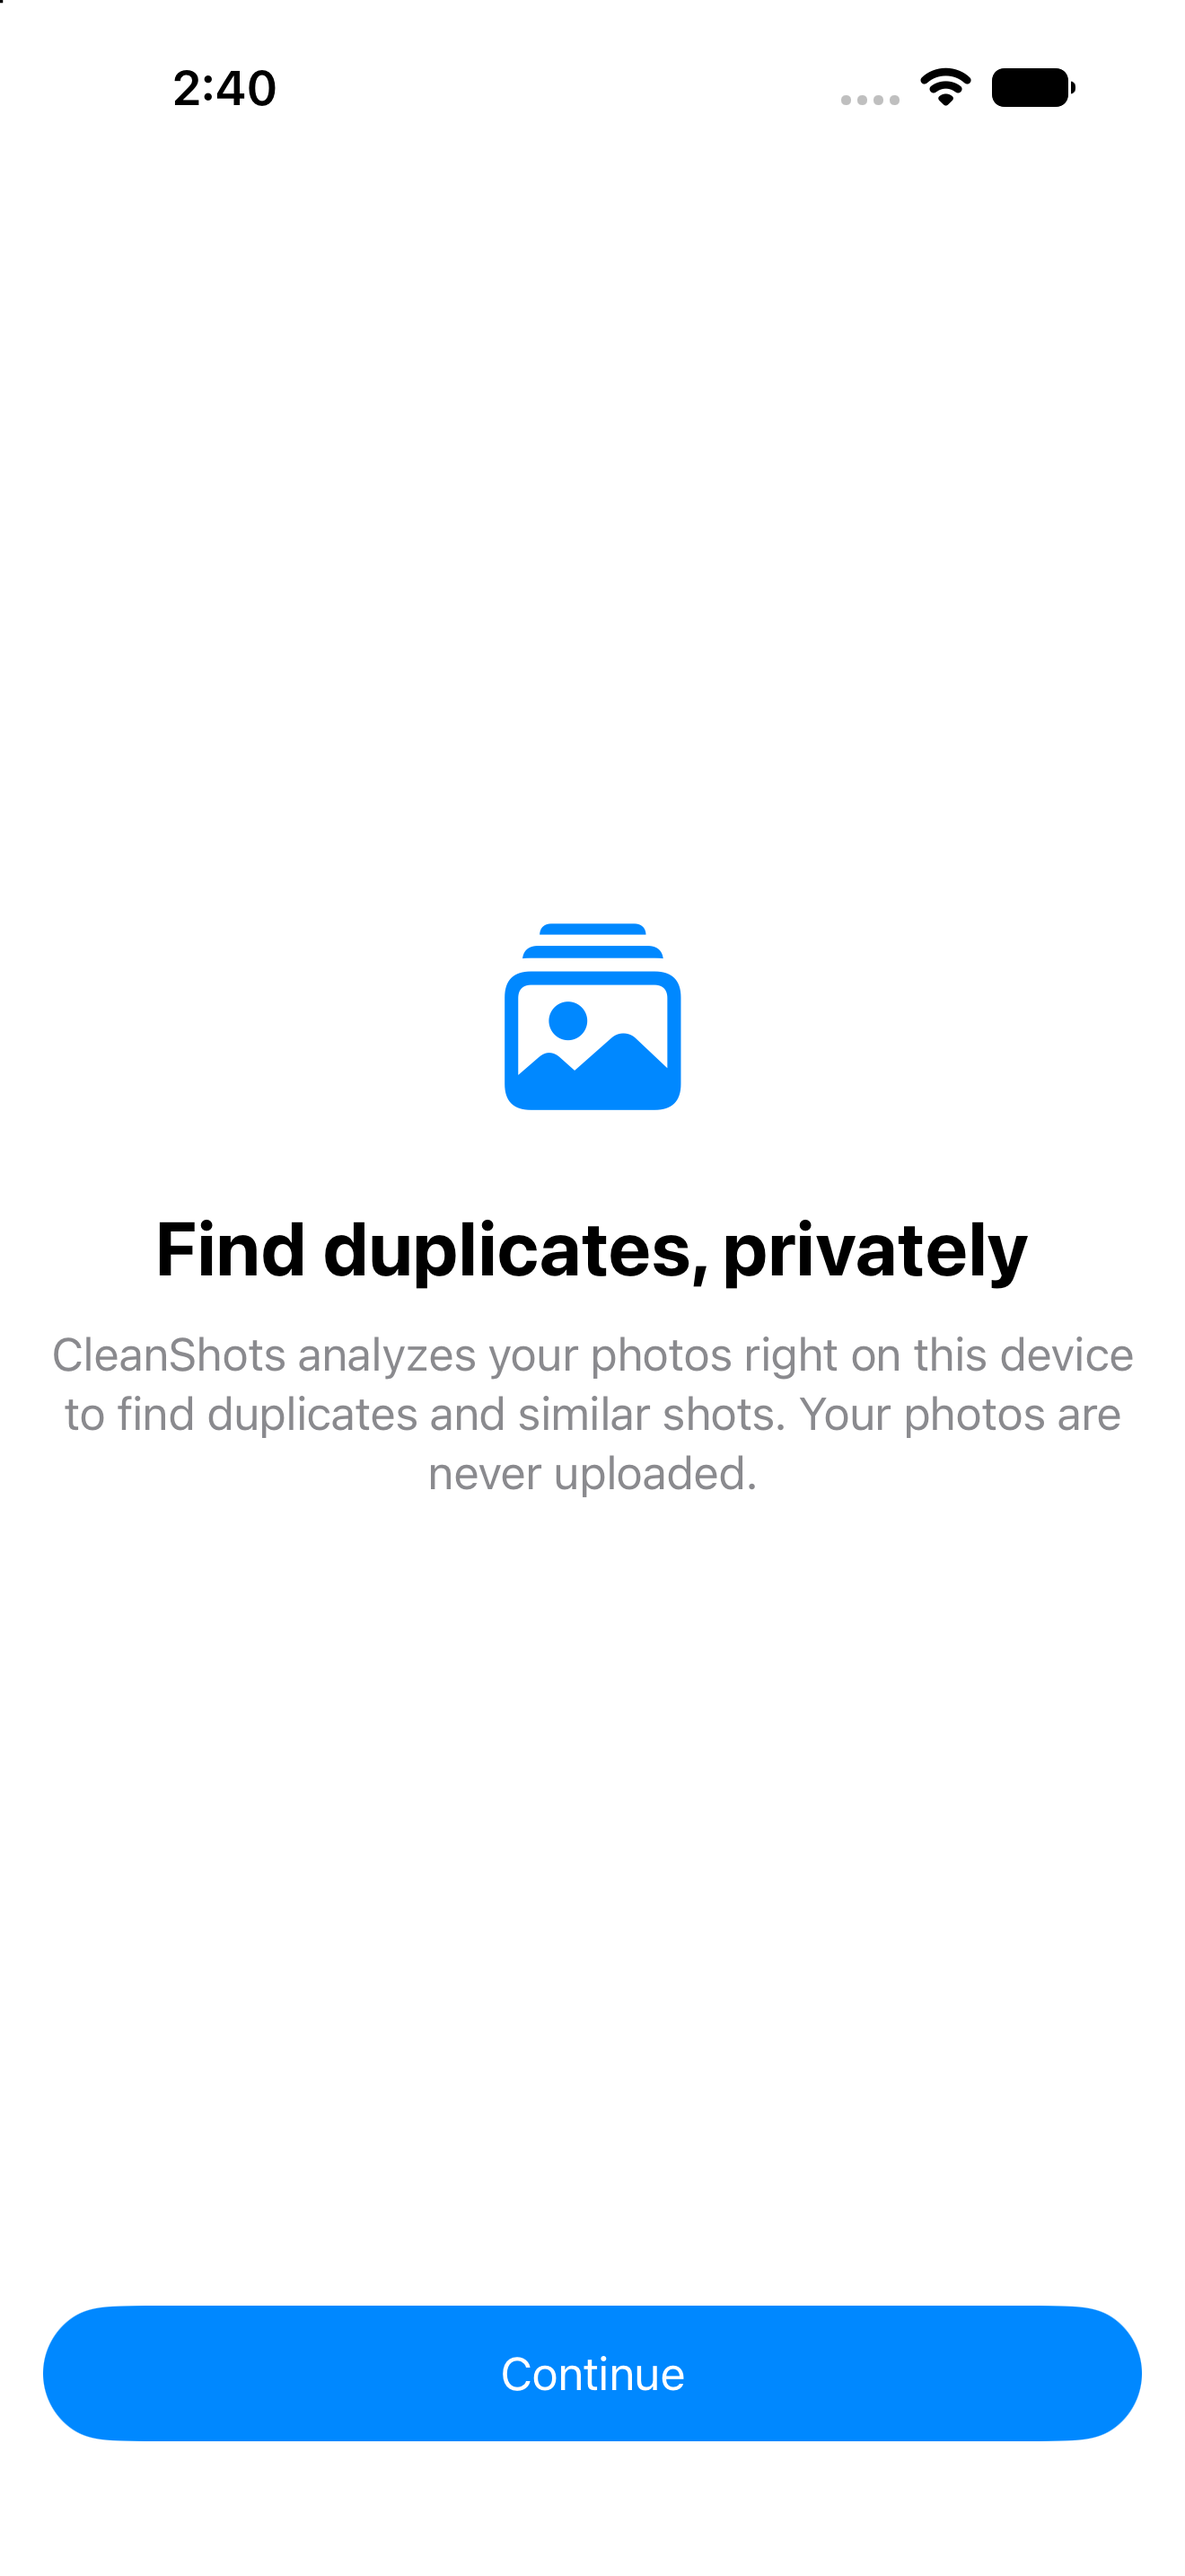
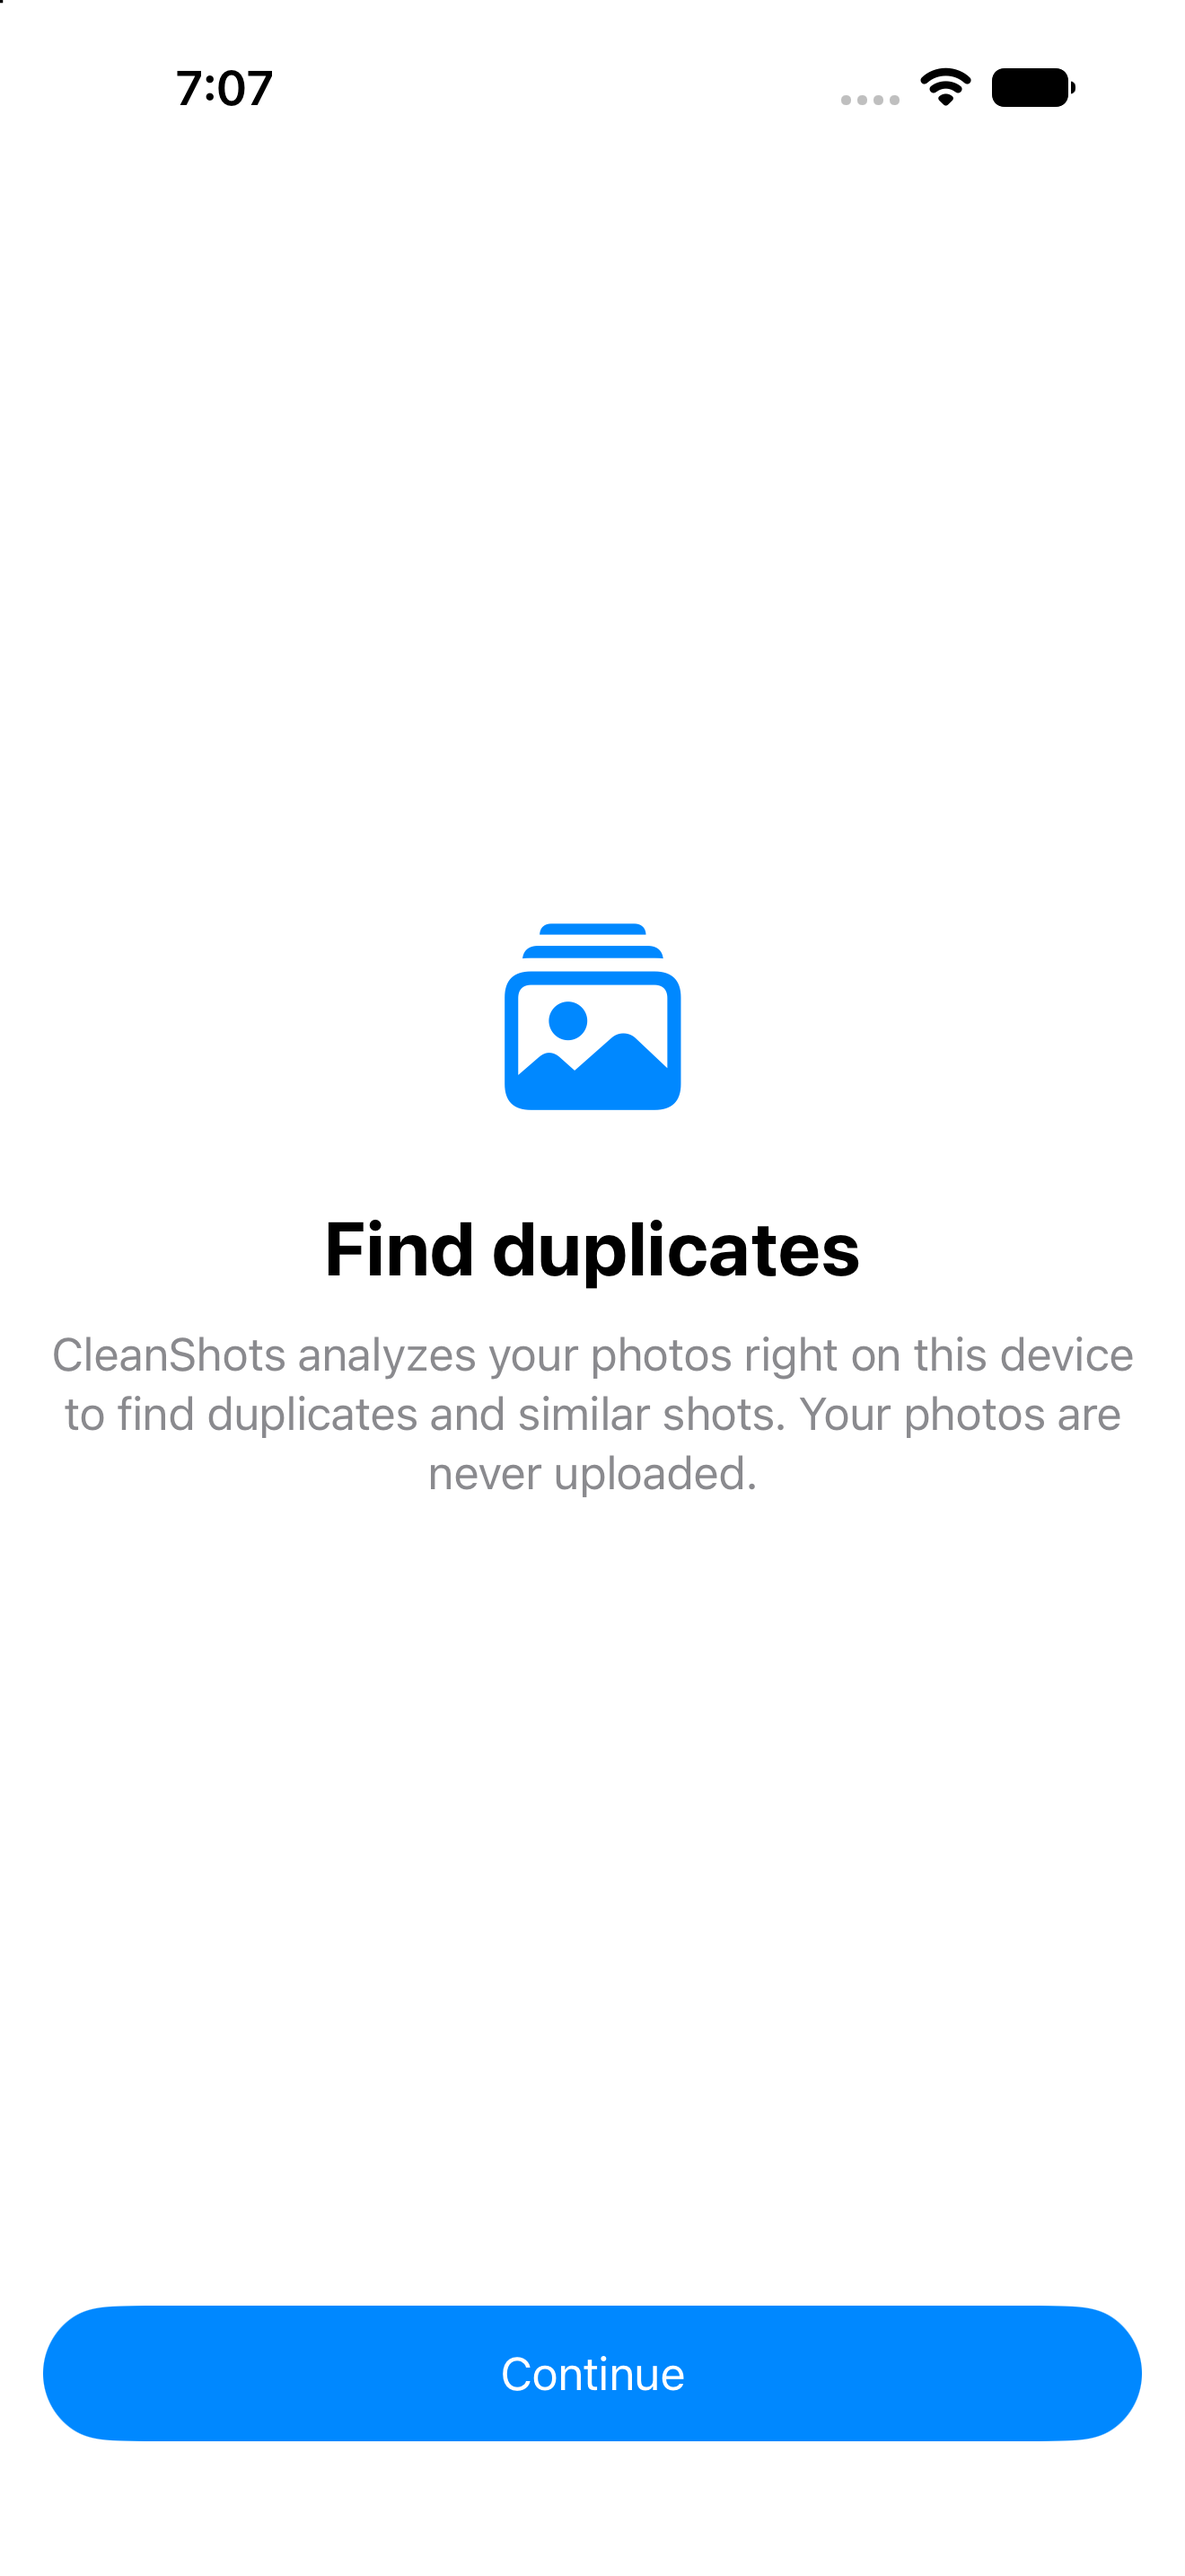
Add App Store submission guide; refresh onboarding screenshot
Adds docs/app-store-submission.md: paste-ready listing copy (within
character limits), a reasoned "Data Not Collected" privacy-label
recommendation, App Review notes, export-compliance guidance, and a
pre-submission checklist.

Re-captures iphone-6.9/1-onboarding.png, which still showed the old
"Find duplicates, privately" title; the app now reads "Find duplicates".
Updates the marketing README caption to match.

Changed region(s): [[0.1242, 0.4655, 0.8697, 0.4965], [0.1864, 0.031, 0.2485, 0.0621]]

diff --git a/docs/app-store-submission.md b/docs/app-store-submission.md
@@ -1,0 +1,184 @@
+# CleanShots — App Store Submission Guide
+
+Everything needed to fill out App Store Connect for the **1.0** release. Copy
+fields are written to App Store Connect's character limits. Items marked
+**(your action)** happen in the Connect web UI or require a decision only you can
+make.
+
+---
+
+## 1. App information
+
+| Field | Value |
+|---|---|
+| App name | `CleanShots` |
+| Bundle ID | `com.vnaidu.CleanShots` |
+| Version / Build | `1.0` / `1` |
+| Primary category | **Photo & Video** |
+| Secondary category | **Utilities** |
+| Age rating | **4+** (answer every content question "None") |
+| Price | Free *(your action — set tier)* |
+
+---
+
+## 2. Listing copy (paste-ready)
+
+### Subtitle (≤30 chars)
+```
+Find & remove duplicate photos
+```
+
+### Promotional text (≤170 chars — editable later without review)
+```
+Find duplicate and similar photos right on your device, keep the best shot in each set, and free up space — all without a single photo leaving your iPhone.
+```
+
+### Keywords (≤100 chars, comma-separated, no name/subtitle repeats)
+```
+duplicate,cleaner,storage,similar,burst,declutter,gallery,space,best shot,organize,delete,free up
+```
+
+### Description
+```
+CleanShots cleans up your photo library the private way — entirely on your device. It finds duplicates and near-identical shots, picks the best one in each set, and helps you safely remove the rest. No account, no cloud, no uploads.
+
+WHY CLEANSHOTS
+• Private by design — your photos are analyzed right on your iPhone or iPad and never leave your device.
+• Nothing is deleted automatically. You review every group, and removed photos go to Recently Deleted, so they're always recoverable.
+• Built for the photos you actually take — portrait series, bursts, and drone sequences.
+
+FIND WHAT'S REDUNDANT
+• Detects exact duplicates and visually similar shots using on-device perceptual hashing and Apple's Vision framework.
+• Groups a same-scene series — like a "Happy Birthday" portrait burst — and pre-selects everything but the keeper.
+• Shows a match percentage so you can see why photos were grouped.
+
+KEEP THE BEST SHOT
+• Automatically ranks each group by sharpness, exposure, and resolution to recommend the keeper.
+• Tap "Why this one?" for a plain-language explanation of the pick.
+• Protects favorites, edited photos, Live Photos, hidden, shared, and photos with people.
+
+ASK IN PLAIN LANGUAGE
+• Type a request like "scan last month, be conservative" — interpreted on-device by Apple Intelligence, with a reliable fallback when it's unavailable.
+• Optionally scope a scan to a place you name; matching looks up where photos were taken using Apple's location service. This is off by default and the only feature that sends anything off your device — and it sends coordinates only, never your photos.
+
+DRONE & BURST
+• Clusters photo sessions by time and location, finds redundant sequences, and preserves genuinely unique angles — including different drone altitudes.
+
+SIRI & SHORTCUTS
+• Start scans, review groups, and build albums by voice.
+
+CleanShots has no ads, no trackers, no analytics SDKs, and no account. It just makes your library smaller, on your terms.
+```
+
+### What's New (1.0)
+```
+First release of CleanShots:
+• On-device duplicate and similar-photo detection
+• Best-shot ranking with plain-language explanations
+• Natural-language scans with Apple Intelligence
+• Drone/Burst session cleanup that protects unique angles
+• Siri & Shortcuts support
+• Optional, off-by-default place-name scan matching
+```
+
+---
+
+## 3. URLs
+
+| Field | Value | Status |
+|---|---|---|
+| Privacy Policy URL | hosted copy of `docs/privacy-policy.html` | **(your action)** — see note |
+| Support URL | a page or mailto with contact info | **(your action)** |
+| Marketing URL (optional) | — | optional |
+
+> **Privacy Policy hosting:** App Store Connect requires a public **URL**, not a
+> file. The simplest path: enable **GitHub Pages** on the repo (Settings →
+> Pages → deploy from `main` / `/docs`), which publishes `privacy-policy.html`
+> at `https://veeravn.github.io/CleanShots/privacy-policy.html`. A Support URL
+> can be the repo's README or a simple page with your contact email.
+
+---
+
+## 4. App Privacy ("nutrition labels")
+
+**Recommended answer to "Do you or your third-party partners collect data from
+this app?": → No, "Data Not Collected".**
+
+### Why this is accurate
+Apple defines "collect" as transmitting data off the device in a way that lets
+**you (the developer) or your partners access it beyond what's needed to service
+the request in real time**. Against that definition:
+
+- **No developer data collection of any kind.** No account, no analytics, no ads,
+  no third-party SDKs, and no server — confirmed: the codebase contains no
+  networking, analytics, or login code.
+- **Photos never leave the device.** All analysis (hashing, Vision, ranking,
+  on-device Apple Intelligence) runs locally.
+- **The one off-device call is reverse geocoding** photo coordinates via Apple's
+  **MapKit** (`MKReverseGeocodingRequest`). That data is processed by **Apple's
+  own framework** to service the request in real time; you never receive, store,
+  or reuse it, and Apple as the OS platform provider is not a "third-party
+  partner" you declare. It is also **opt-in and off by default**.
+
+So there is no data type that meets Apple's "collection" bar for *you* to
+declare.
+
+### The one judgment call (so you can confirm)
+The only debatable item is the geocoding location lookup. The position above —
+that framework-only, real-time-serviced, developer-inaccessible data isn't
+developer "collection" — is consistent with Apple's guidance and is the accurate
+declaration. **If you prefer maximum caution**, you may instead declare:
+
+> **Location → Coarse Location** · Used for: **App Functionality** · **Not** used
+> for tracking · **Not** linked to the user's identity.
+
+Either is defensible; "Data Not Collected" is the more accurate one given you
+never access the data. This is your legal declaration — pick the one you're
+comfortable signing.
+
+---
+
+## 5. App Review notes (paste into "Notes" / "Review Information")
+
+```
+CleanShots is a fully on-device photo-deduplication app. No account or login is required (no demo account needed).
+
+To test: grant Photos access when prompted. The app scans the library for duplicate and similar photos and presents them for review. Nothing is deleted without explicit user action; removals go to Recently Deleted.
+
+"Ask CleanShots" interprets a typed request using on-device Apple Intelligence (Foundation Models); when unavailable it falls back to deterministic keyword parsing, so the feature works on all supported devices.
+
+Optional place-name scan scoping is OFF by default. When a user enables it for a scan, the app reverse-geocodes photo coordinates via MapKit (MKReverseGeocodingRequest) to match a named place. Only coordinates are sent to Apple's location service — never photos. This is the only off-device transmission and is disclosed in the privacy policy.
+
+Photo-library permission strings explain both read access (for scanning) and add access (for optionally saving best shots to a new album).
+```
+
+---
+
+## 6. Export compliance
+
+The app uses only standard encryption provided by Apple's frameworks (e.g. HTTPS
+inside MapKit) and no custom/proprietary cryptography. You can declare it
+**exempt**.
+
+> **Tip:** add `ITSAppUsesNonExemptEncryption = NO` to the app's Info settings to
+> skip the encryption question on every upload. **(optional, your action)**
+
+---
+
+## 7. Pre-submission checklist
+
+- [ ] **App icon** — 1024×1024 present in the asset catalog ✓ (confirm it has no alpha/transparency)
+- [ ] **iPhone 6.9" screenshots** — 7 captured in `marketing/screenshots/iphone-6.9/` ✓
+- [ ] **iPad 13" screenshots** — 3 captured in `marketing/screenshots/ipad-13/` ✓
+- [ ] ⚠ **Re-capture `iphone-6.9/1-onboarding.png`** — it shows the old title "Find duplicates, privately"; the app now reads "Find duplicates". The current screenshot is stale.
+- [ ] Privacy Policy URL is live (GitHub Pages) **(your action)**
+- [ ] Support URL set **(your action)**
+- [ ] Listing copy, keywords, categories, age rating entered **(your action)**
+- [ ] App Privacy answered ("Data Not Collected" recommended) **(your action)**
+- [ ] Archive in Xcode (Release) and upload via Organizer **(your action)**
+- [ ] Export-compliance answer set / `ITSAppUsesNonExemptEncryption` configured
+
+---
+
+*Generated as submission prep. Verify every field in App Store Connect before
+submitting — the privacy declaration in particular is yours to confirm.*

diff --git a/marketing/README.md b/marketing/README.md
@@ -11,7 +11,7 @@ they can be uploaded to App Store Connect without resizing.
 
 | File | Screen |
 |------|--------|
-| `screenshots/iphone-6.9/1-onboarding.png`    | "Find duplicates, privately" intro |
+| `screenshots/iphone-6.9/1-onboarding.png`    | "Find duplicates" intro |
 | `screenshots/iphone-6.9/2-home.png`          | Home: Ask CleanShots + actions |
 | `screenshots/iphone-6.9/3-scan-setup.png`    | Scan scope, options, sensitivity |
 | `screenshots/iphone-6.9/4-scan-pipeline.png` | Five-stage on-device scan |
